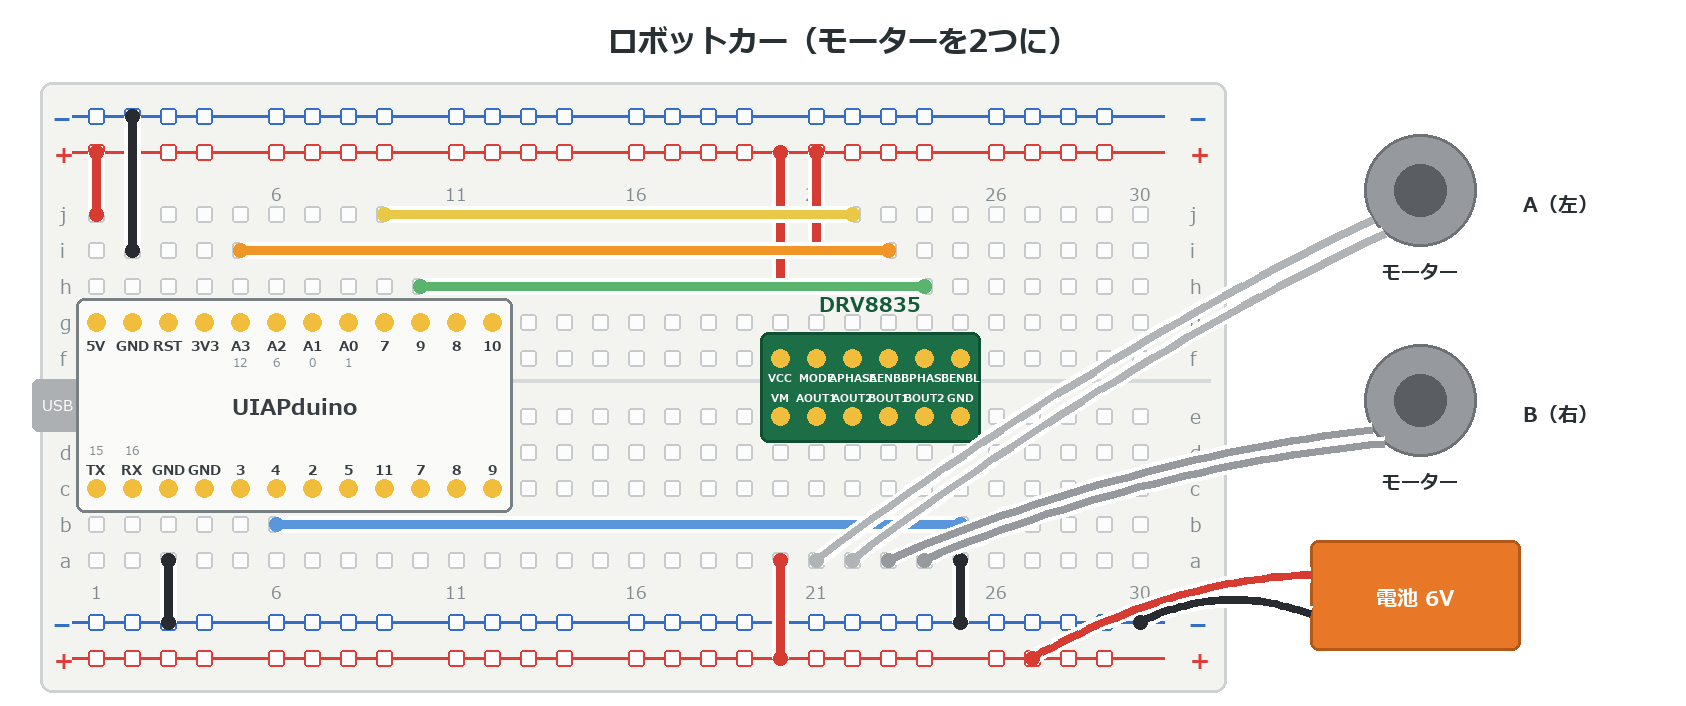
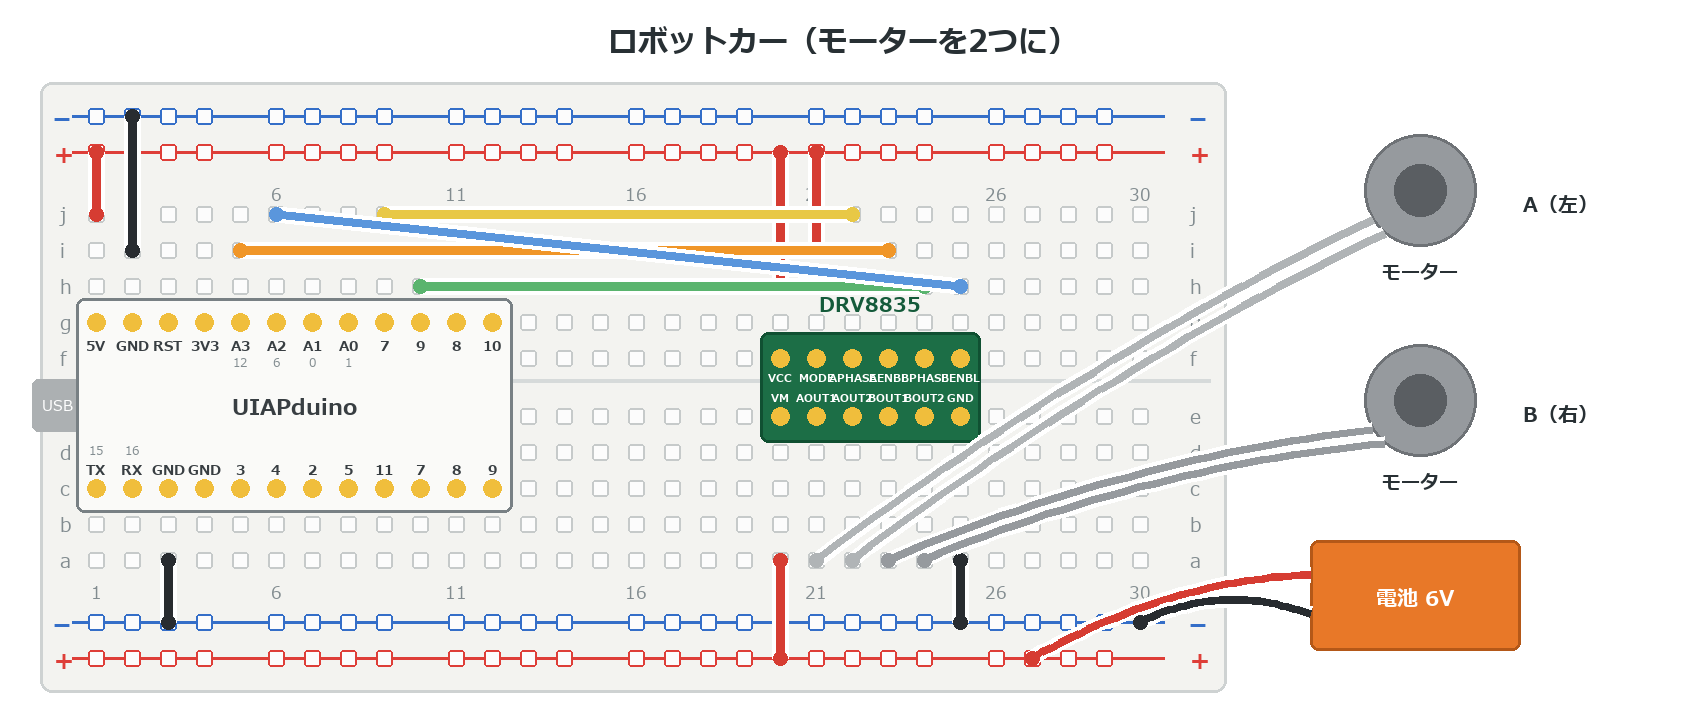
e5 の2モーター図で BENBL の配線が誤っていたのを直した
青線（6番→BENBL）を下半分の b行に置いていたため、ボード側は
下の行の「4」に、ドライバ側は GND につながって見えていた。
見た目だけでなく電気的にも誤り。

ブレッドボードの列は上半分（f〜j）と下半分（a〜e）で別のまとまり。
上の行のピン（A2＝6番）につなぐ線は、上半分から出さないといけない。
j行 → h行 に直した。

同じ誤りをくりかえさないよう、作図スクリプトの冒頭に「経路は
交差してよいが、どの行から出すかは電気的に意味がある」と書いた。

Changed region(s): [[0.1542, 0.2805, 0.586, 0.4363], [0.1542, 0.7167, 0.586, 0.779]]

diff --git a/tools/fig_bb_drv8835.py b/tools/fig_bb_drv8835.py
@@ -13,6 +13,11 @@
 
 ピン： AENBL=12番(A3) / APHASE=7番 / BENBL=6番(A2) / BPHASE=9番
 ジャンパーは「どこからどこへ」が分かればよいので、経路は交差してよい。
+
+⚠ ただし**どの行から出すか**は電気的に意味がある。ブレッドボードの列は
+上半分（f〜j）と下半分（a〜e）で別のまとまりなので、**上の行のピンに
+つなぐ線は、かならず f〜j 行から出す**こと。下半分から出すと、同じ列でも
+下の行のピン（まったく別の番号）につながってしまう。
 """
 import sys
 sys.path.insert(0, "tools")
@@ -42,7 +47,7 @@ def draw(two):
     wire(d, (5, "i"), (DC + 3, "i"), ORANGE)     # 12番 → AENBL （速さ・PWM）
     if two:                                      # モーターB の合図
         wire(d, (10, "h"), (DC + 4, "h"), GREEN) # 9番  → BPHASE（向き）
-        wire(d, (6, "b"), (DC + 5, "b"), BLUE)   # 6番  → BENBL （速さ・PWM）
+        wire(d, (6, "j"), (DC + 5, "h"), BLUE)   # 6番  → BENBL （速さ・PWM）
 
     # 力の線
     wire(d, (DC, "a"), (DC, "+b"), RED)                # VM  → 下の ＋レール
